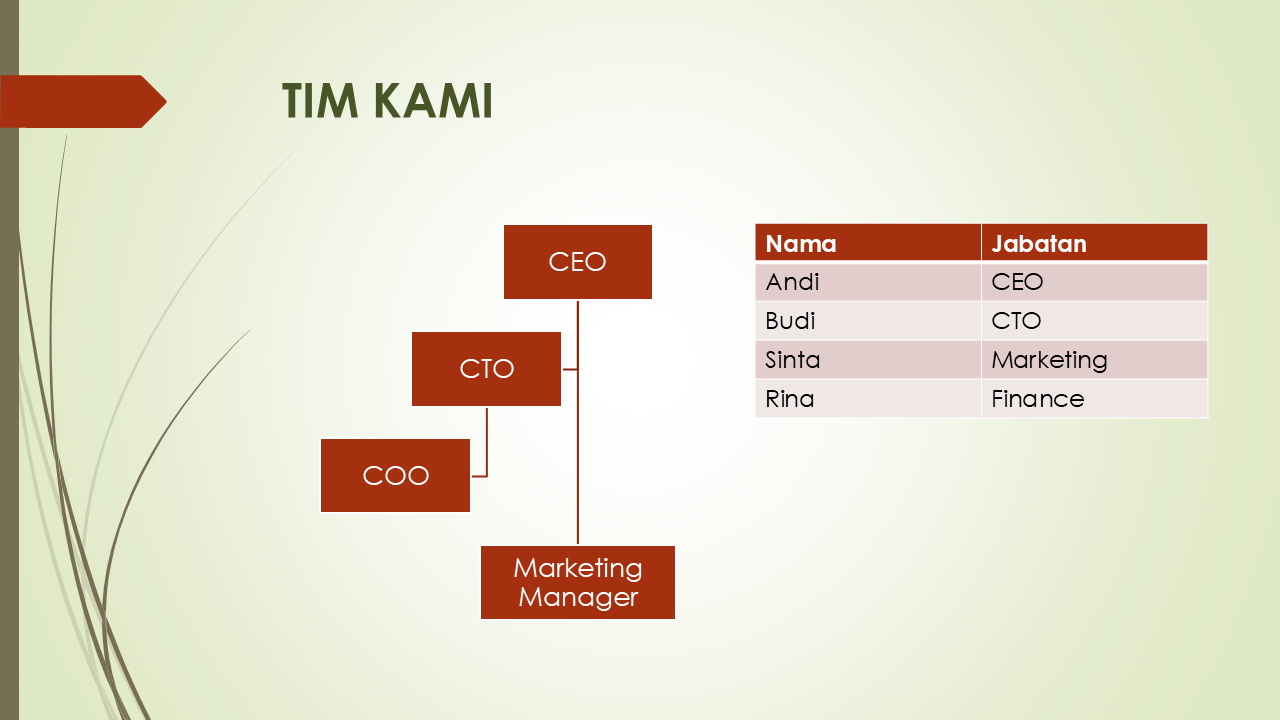
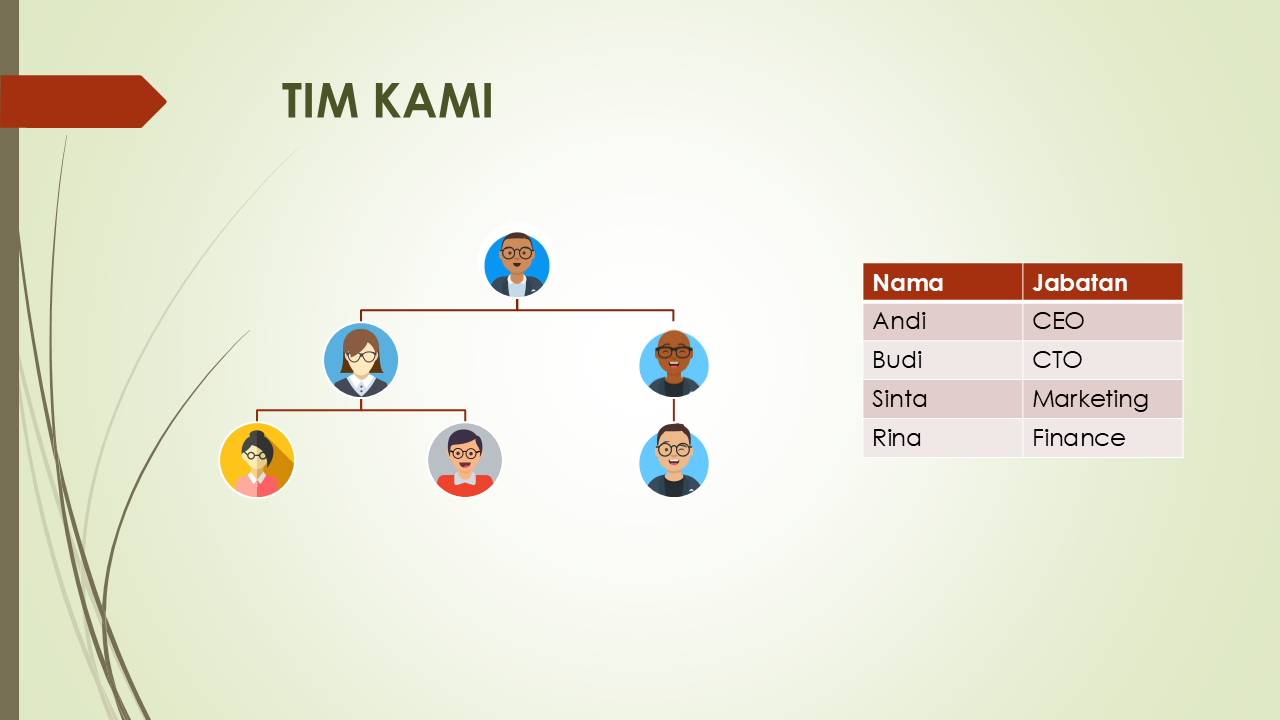
M

diff --git a/materi-powerpoint.html b/materi-powerpoint.html
@@ -2261,9 +2261,28 @@
                               </li>
                               <li>
                                 <strong>Slide 6</strong>
-                                <div class="row">
-                                  <div class="col"></div>
-                                  <div class="col"></div>
+                                <div class="row mt-2">
+                                  <div class="col">
+                                    <ul class="list-unstyled">
+                                      <li>Judul : <strong>TIM KAMI</strong></li>
+                                      <li>Isi :                                        
+                                        <ul>
+                                          <li><strong>Insert</strong> → <strong>SmartArt</strong> → <strong>Hierarchy</strong>
+                                            <div class="my-2">
+                                              <img src="assets/img/insert-smartart-hierarchy.png" alt="" class="img-fluid">
+                                            </div>
+                                          </li>
+                                        </ul>
+                                      </li>
+                                      <li>
+                                        ...
+                                      </li>
+                                    </ul>
+                                  </div>
+                                  <div class="col">
+                                    <img src="assets/img/Business-Pitch-Deck-7-Slide/Slide6.PNG" alt=""
+                                      class="img-fluid">
+                                  </div>
                                 </div>
                                 <hr>
                               </li>
